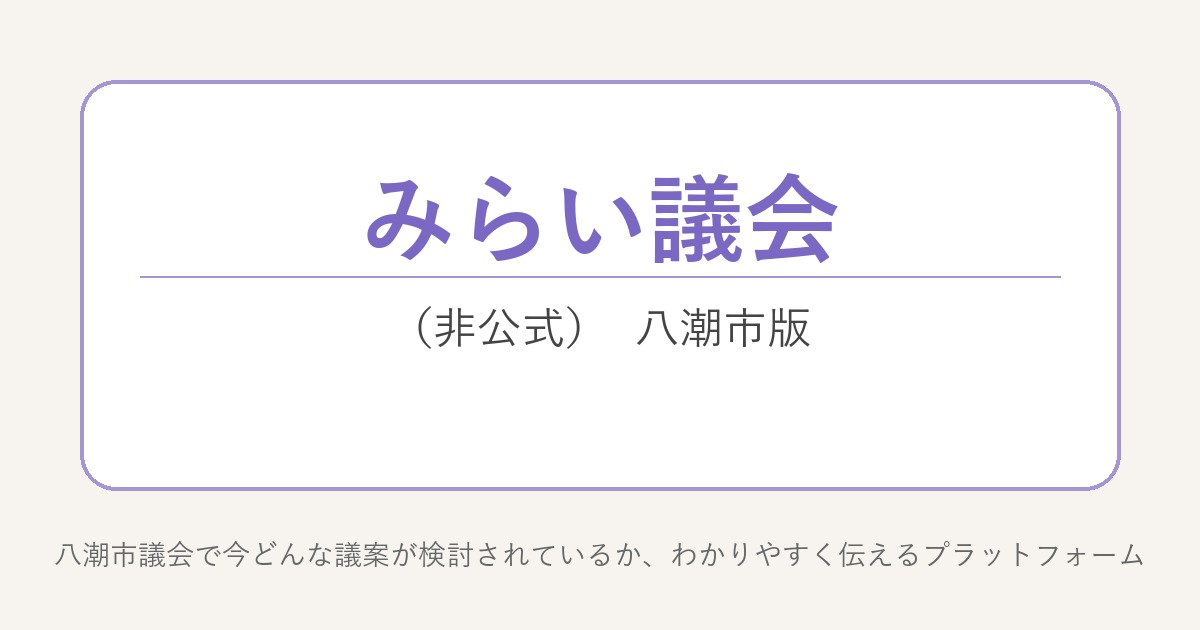
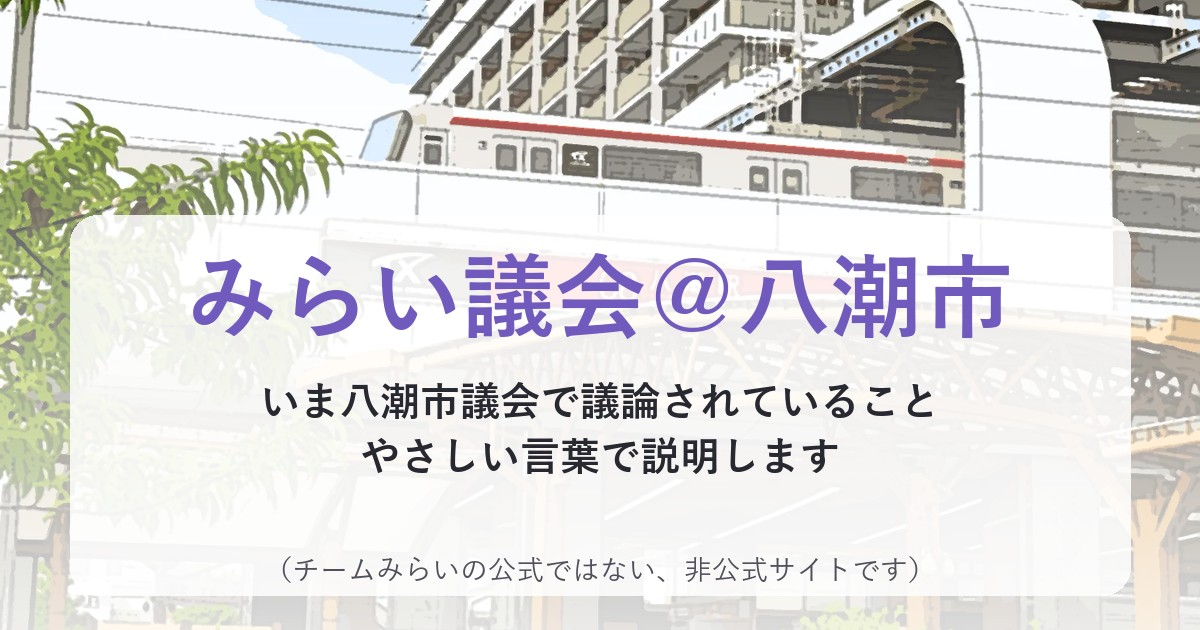
OGP画像をトップ画面と同じ背景のデザインに差し替え

diff --git a/docs/yashio/公開前チェックリスト.md b/docs/yashio/公開前チェックリスト.md
@@ -20,7 +20,7 @@
 - 非公式であることを示す大事な表示なので、消さずに残す。
 
 ## 3. 画像(仮)※ここだけ運営者の判断待ち。差し替えたい画像があれば用意する
-- `web/public/ogp.jpg`: 文字のみの仮画像(八潮市版)
+- `web/public/ogp.jpg`: トップ画面と同じ八潮駅の背景に、サイト名と「非公式サイト」の断り書きを載せた画像（2026-11-21 に差し替え済み）
 - `web/public/img/hero_background_yashio.webp`: 八潮駅の写真をイラスト風に加工した背景（写真は運営者本人が撮影。確認済み）。旧 `hero_background.png` は未使用
 - `web/public/img/logo.svg`、`web/public/icons/pwa/icon_yashio.svg`: 文字のみの仮
 - `web/public/img/sample-bill-thumbnail.webp`: 開発用画面(/dev)専用のストック写真
